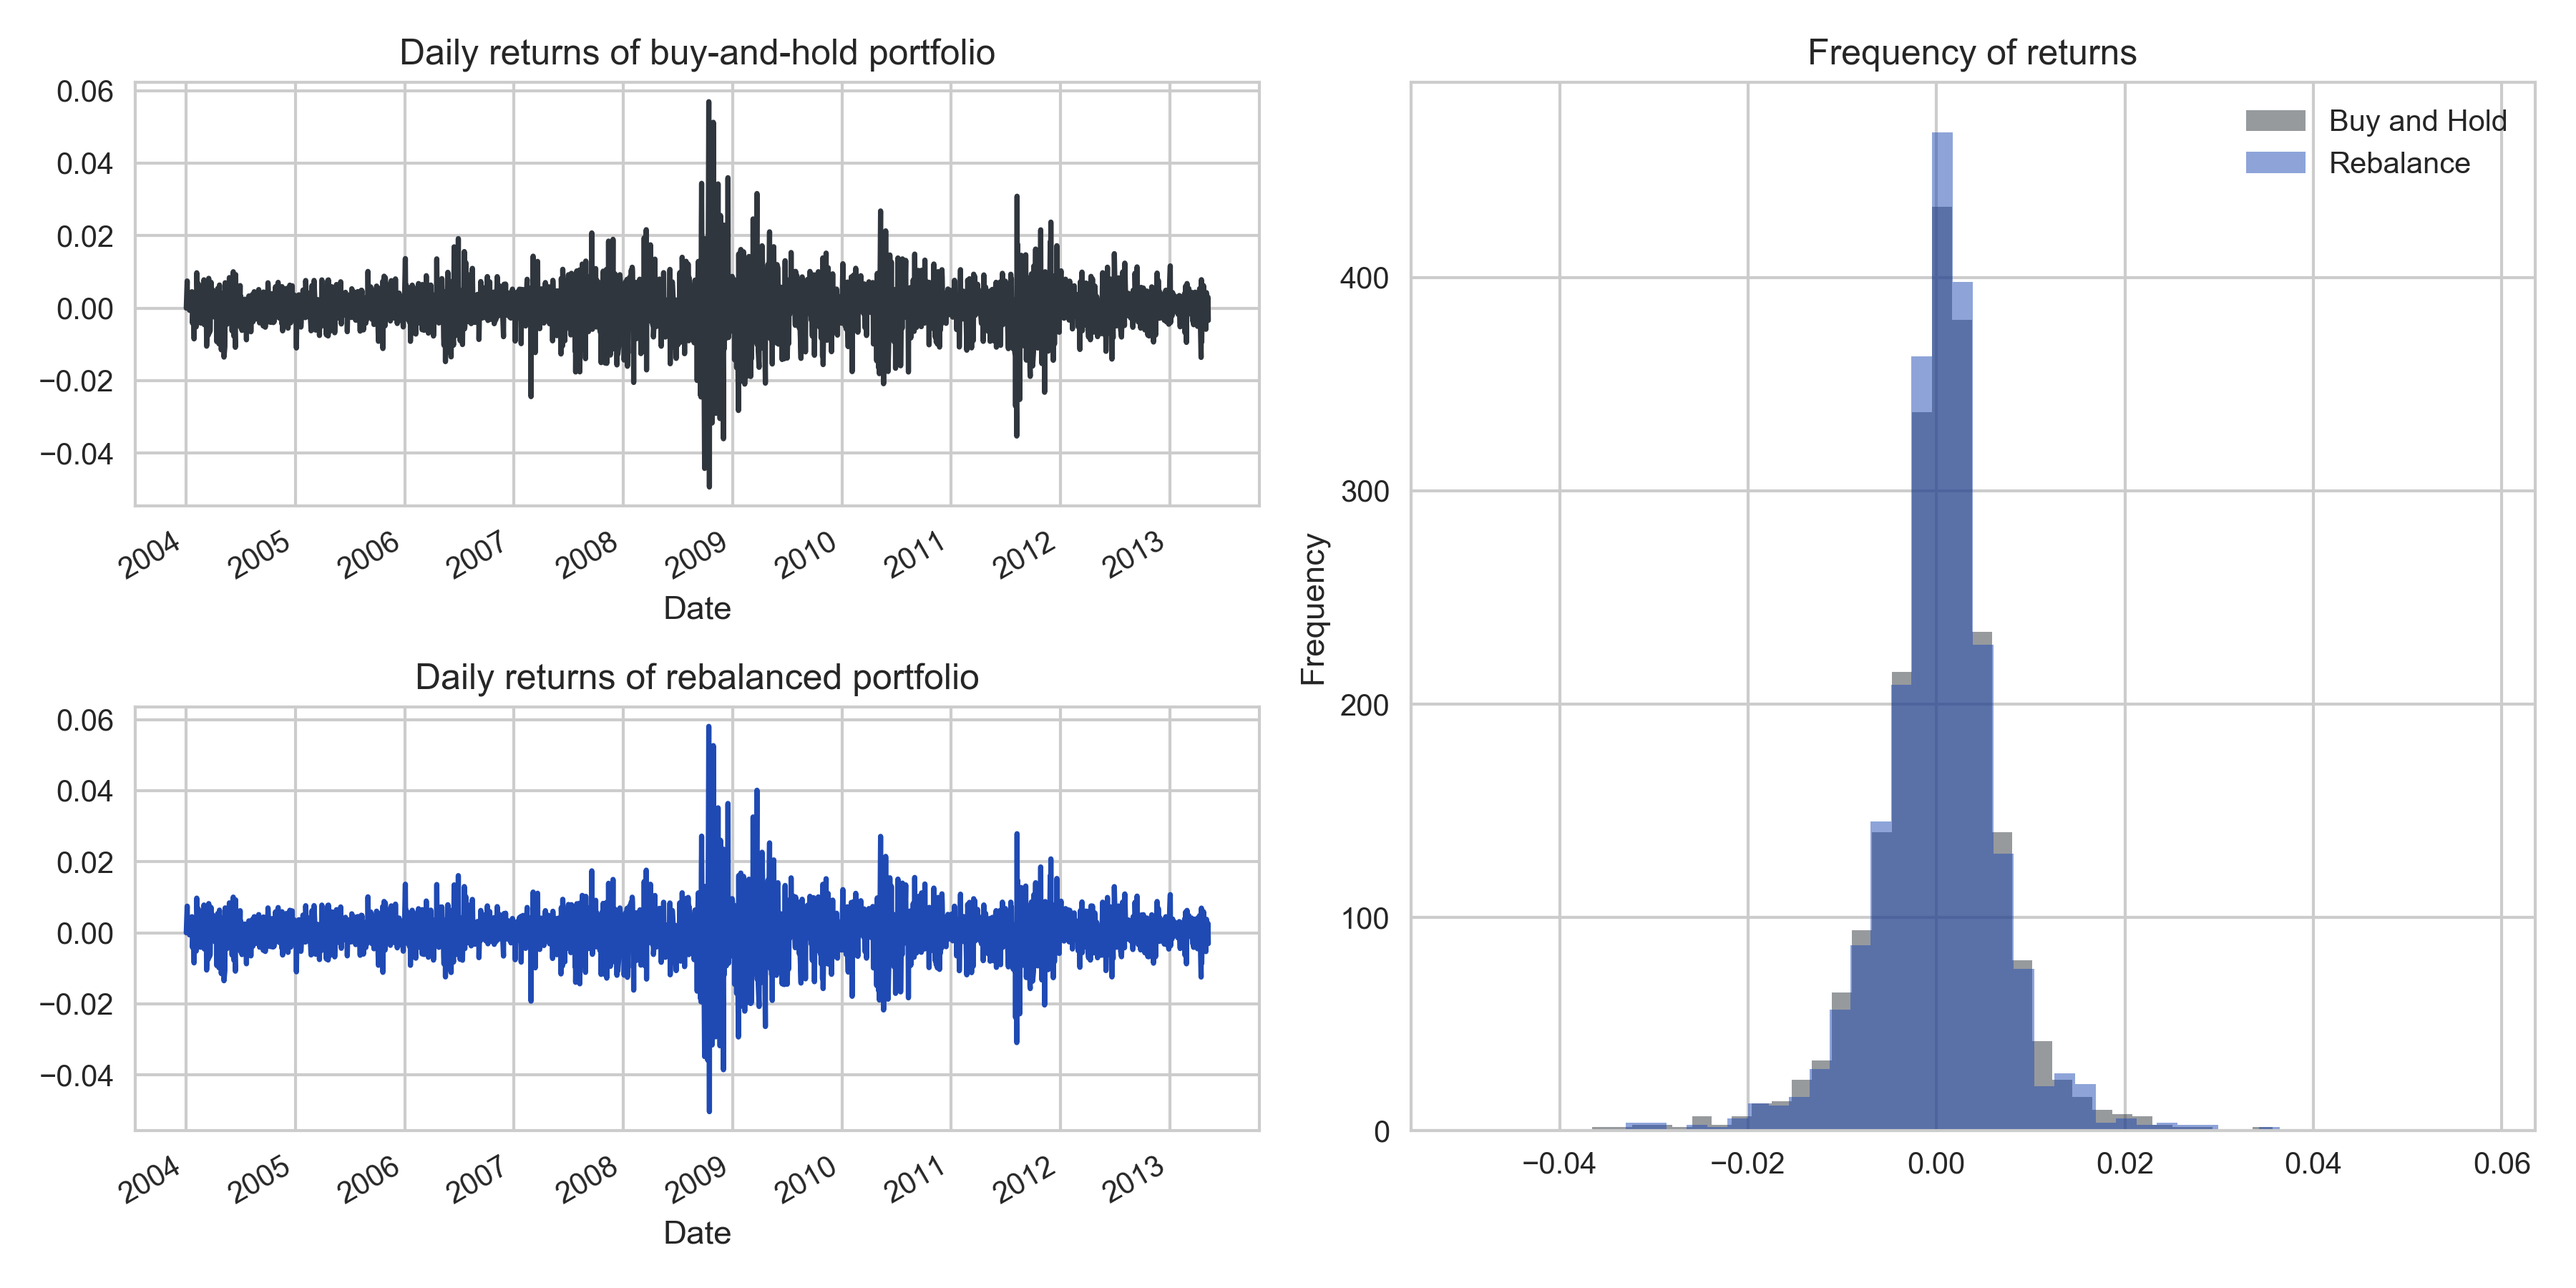
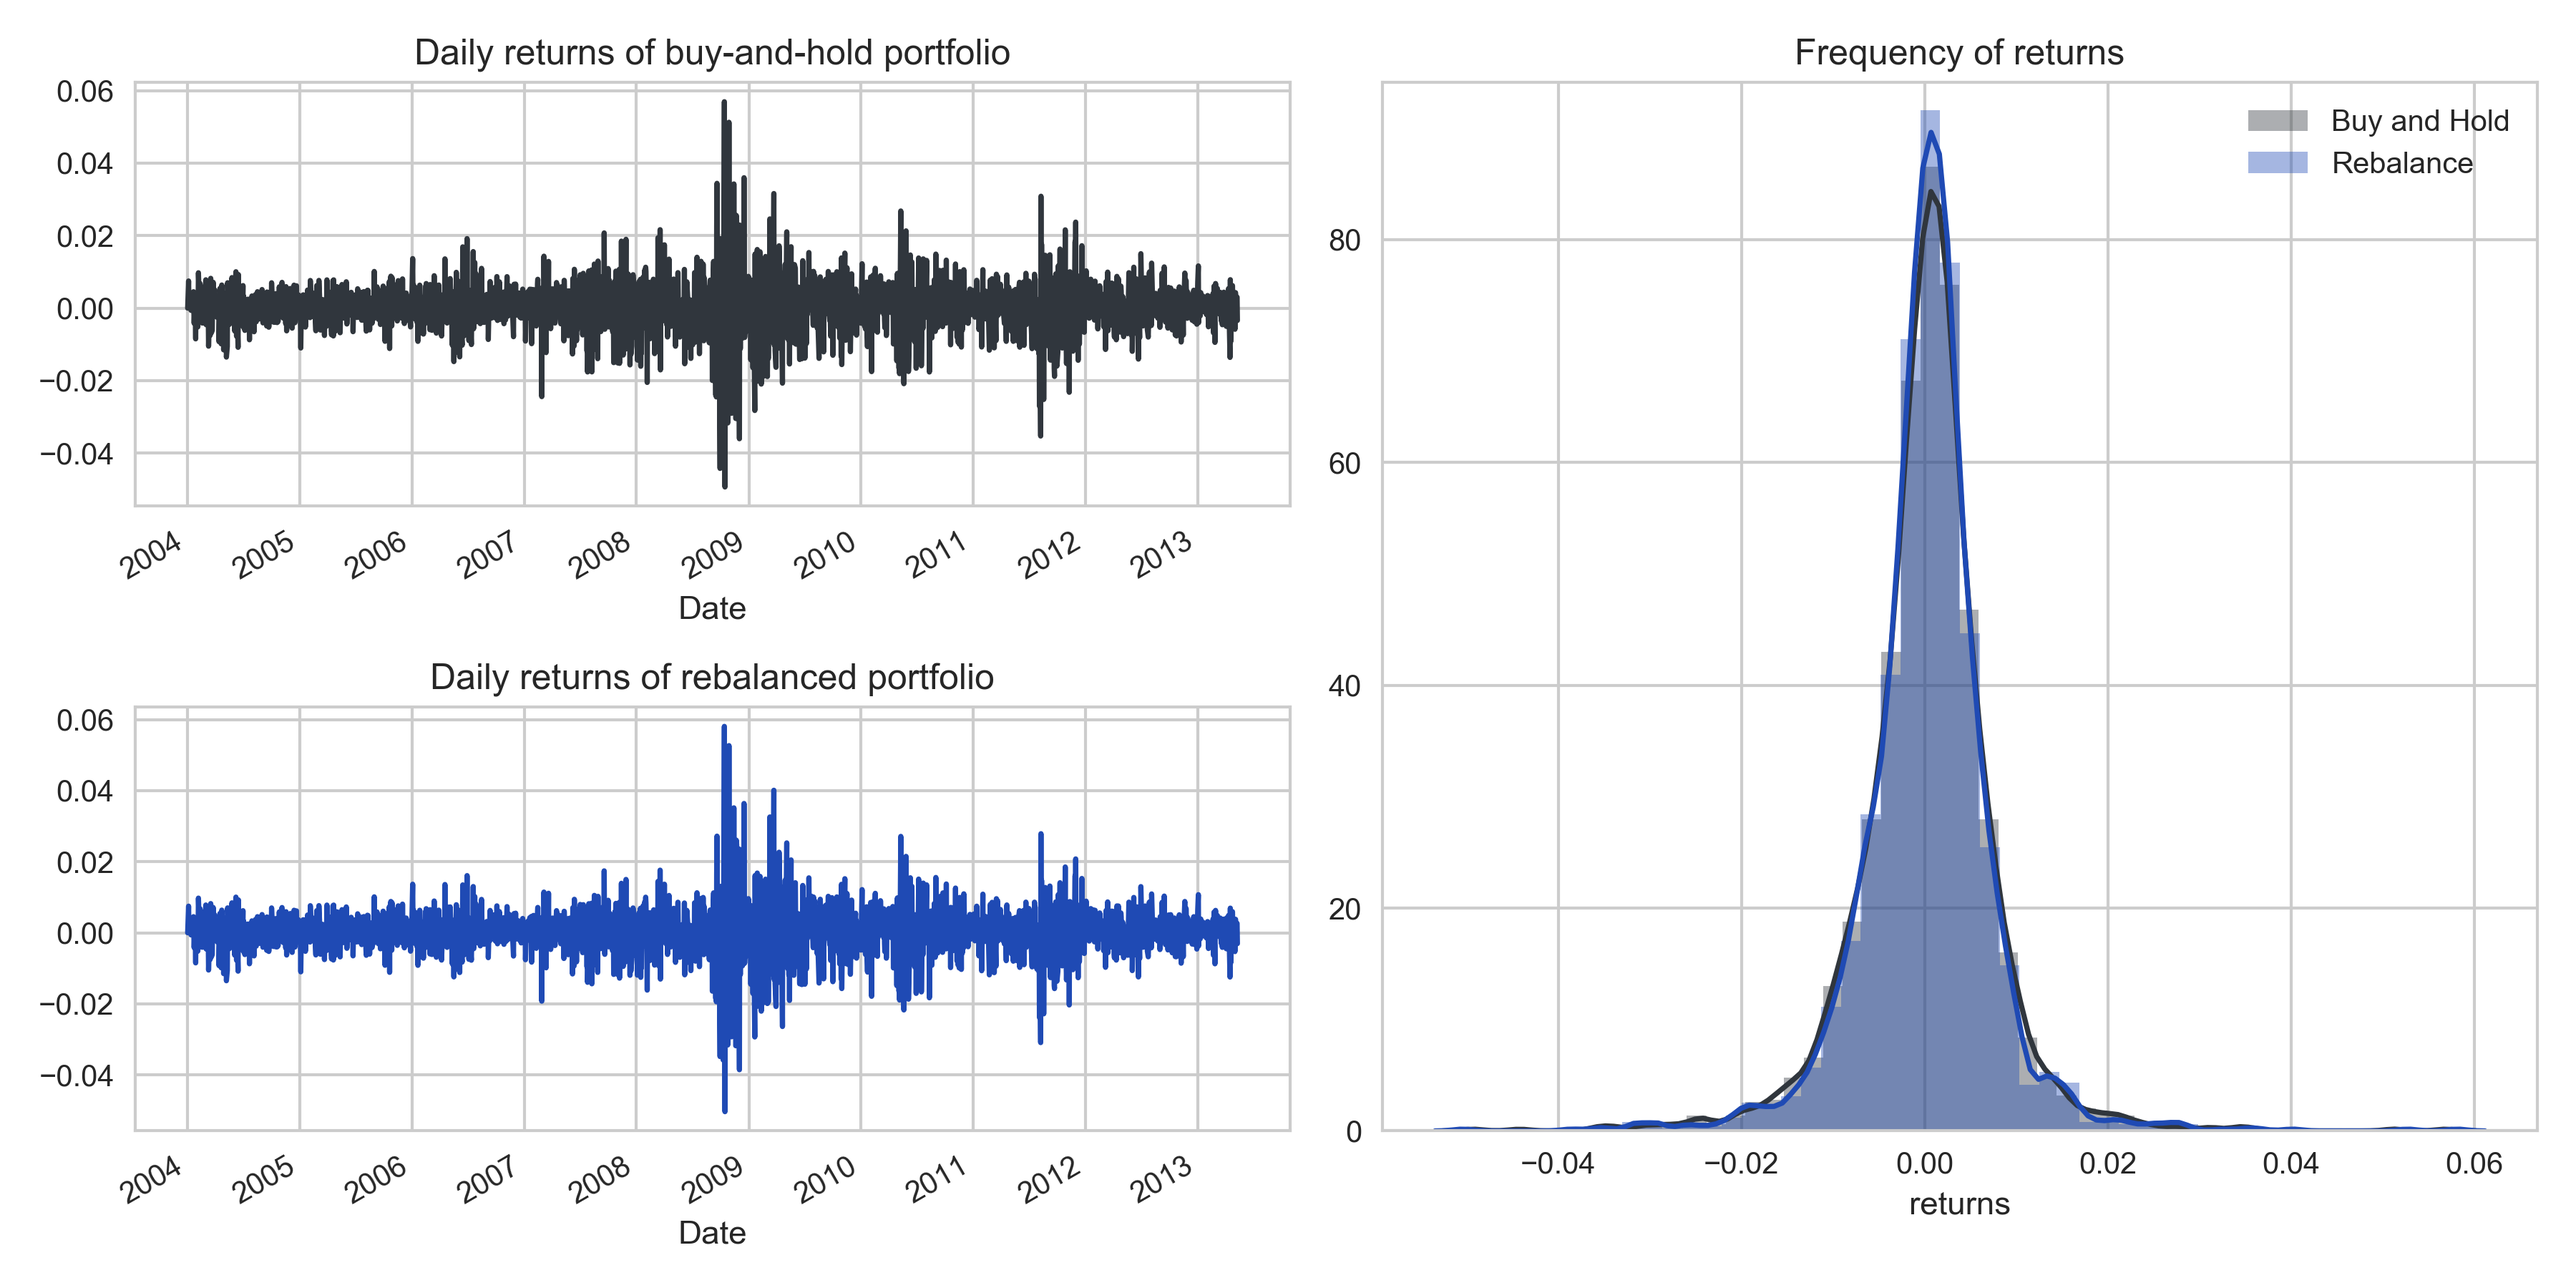
Converted histogram to Seaborn plot

diff --git a/BCS.py b/BCS.py
@@ -135,23 +135,21 @@ def save_images(df_1, df_2, df_trades):
         title='Daily returns of rebalanced portfolio',
         color=BETTERMENT_BLUE
     )
-    df_1['returns'].plot(
+    sns.distplot(
+        a=df_1['returns'],
+        color=BETTERMENT_GRAY,
         ax=hist_ax,
-        kind='hist',
         bins=50,
-        alpha=0.5,
-        title='Frequency of returns',
-        label='Buy and Hold',
-        color=BETTERMENT_GRAY
+        label='Buy and Hold'
     )
-    df_2['returns'].plot(
+    sns.distplot(
+        a=df_2['returns'],
+        color=BETTERMENT_BLUE,
         ax=hist_ax,
-        kind='hist',
         bins=50,
-        alpha=0.5,
-        label='Rebalance',
-        color=BETTERMENT_BLUE
+        label='Rebalance'
     )
+    plt.title('Frequency of returns')
     plt.legend()
     plt.tight_layout()
     plt.savefig(os.path.join('images', 'daily_returns.png'), dpi=300)
